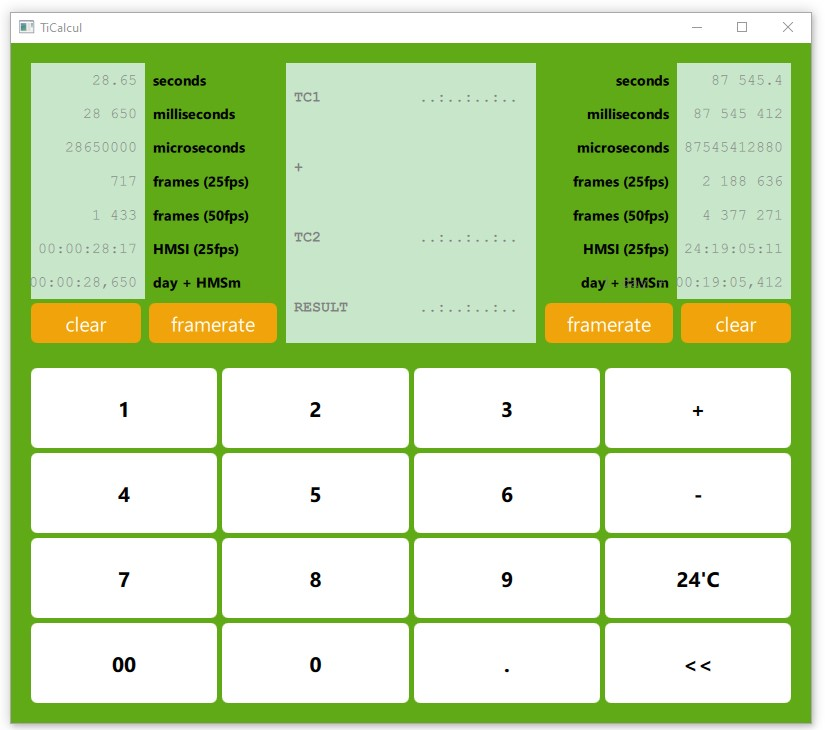
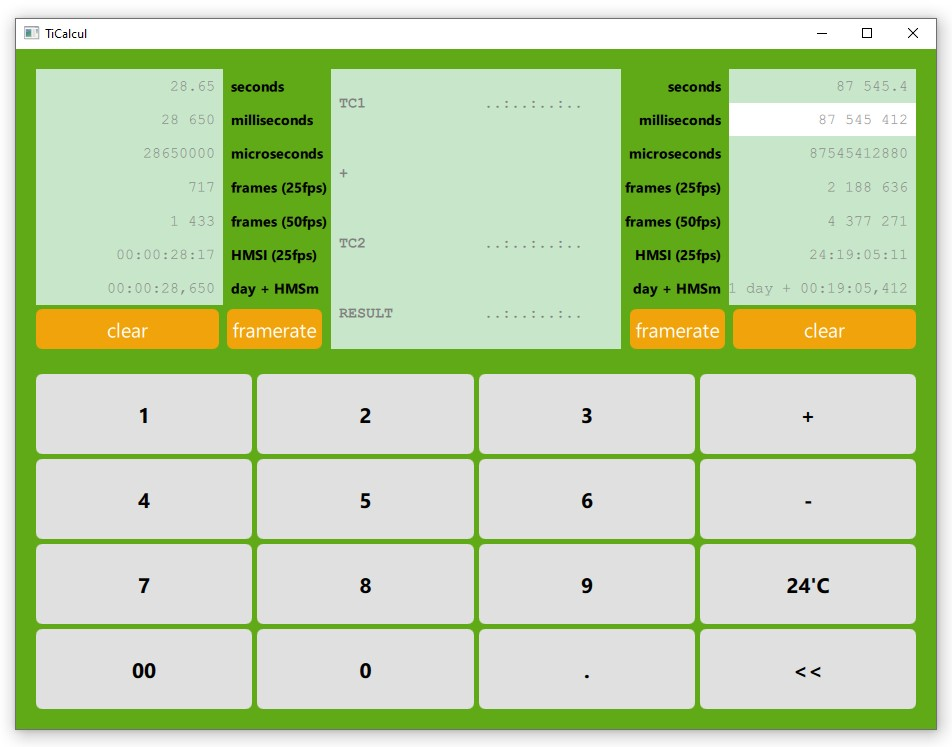
FieldInput est maintenant un bouton

diff --git a/Qml/Vues/FieldInputForm.ui.qml b/Qml/Vues/FieldInputForm.ui.qml
@@ -5,13 +5,10 @@ Button {
     property string fieldText
 
     contentItem: Text {
-        id: input // utile ?
         text: fieldText
-        // color: button.down ? "black" : "white"
-        anchors.fill: parent // utile ?
         horizontalAlignment: Text.AlignRight
         verticalAlignment: Text.AlignVCenter
-        rightPadding: 8 // utile ?
+        // rightPadding: 8 // utile ?
         font.pixelSize: 15
         font.family: "Courier"
         font.bold: false
@@ -19,9 +16,8 @@ Button {
     }
 
     background: Rectangle {
-        anchors.fill: parent // utile ?
-        implicitWidth: 400
+        implicitWidth: 200
         implicitHeight: 40
-        color: "#c8e6ca"
+        color: parent.pressed ? "white" : "#c8e6ca"
     }
 }

diff --git a/Qml/Main.qml b/Qml/Main.qml
@@ -8,7 +8,7 @@ import "./Controllers"
 Window {
     width: 920
     height: 680
-    minimumWidth: 720
+    minimumWidth: 820
     minimumHeight: 580
     visible: true
     title: "TiCalcul"

diff --git a/Qml/Vues/LeftFrameForm.ui.qml b/Qml/Vues/LeftFrameForm.ui.qml
@@ -3,6 +3,7 @@ import QtQuick.Layouts
 import QtQuick.Controls.Universal
 
 import "../Components"
+import "../Controllers"
 
 Item {
     property alias btClear: btClear

diff --git a/Qml/Vues/RightFrameForm.ui.qml b/Qml/Vues/RightFrameForm.ui.qml
@@ -3,6 +3,7 @@ import QtQuick.Layouts
 import QtQuick.Controls.Universal
 
 import "../Components"
+import "../Controllers"
 
 Item {
     property alias btClear: btClear

diff --git a/Qml/Controllers/FieldInput.qml b/Qml/Controllers/FieldInput.qml
@@ -1,0 +1,6 @@
+import QtQuick
+import "../Vues"
+
+FieldInputForm {
+    onClicked: console.log("FieldInput clicked !")
+}

diff --git a/main.cpp b/main.cpp
@@ -8,7 +8,7 @@
 /* ********************************************************************************* */
 /*!
  * \brief Programme principal
- * \param argc (argument count): nombre de paramètres pointés par argv +1
+ * \param argc (argument count): nombre +1 de paramètres de argv
  * \param argv (argument vector)
  * \return
  * ******************************************************************************** */
